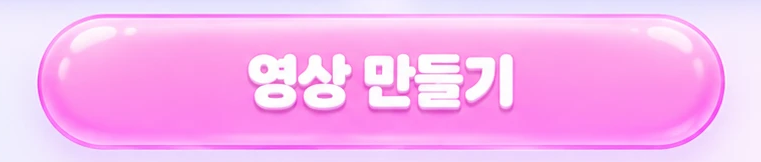
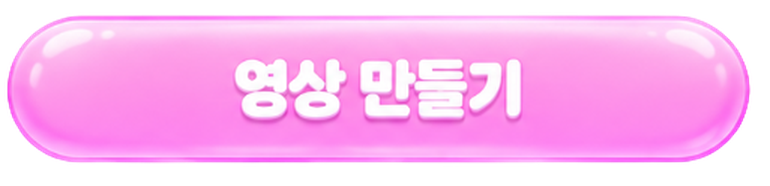
헤딩/버튼 이미지를 실제 투명배경 에셋으로 교체하고 크기 확대
- 누끼된 실제 이미지로 heading.png/btn-submit.png 교체
- 헤딩 이미지 확대, 제출 버튼을 카테고리 버튼 너비만큼 확대
- 한 화면(768px 기준)에서 스크롤 없이 보이도록 여백 재조정

Claude-Session: https://claude.ai/code/session_019RgKKpBfyx27gSoXqEJwwP

diff --git a/webapp/public/css/styles.css b/webapp/public/css/styles.css
@@ -101,7 +101,7 @@ body {
 
 .site-header {
   text-align: center;
-  padding: 18px 20px 0;
+  padding: 10px 20px 0;
 }
 
 .logo-img {
@@ -122,7 +122,7 @@ body {
 .app-shell {
   max-width: 640px;
   margin: 0 auto;
-  padding: 14px 20px 16px;
+  padding: 8px 20px 8px;
 }
 
 .view {
@@ -137,7 +137,7 @@ body {
   background: linear-gradient(160deg, rgba(255, 255, 255, 0.92), rgba(224, 231, 255, 0.75));
   border: 1px solid rgba(255, 255, 255, 0.8);
   border-radius: 32px;
-  padding: 22px 28px;
+  padding: 18px 28px;
   box-shadow: 0 12px 34px rgba(124, 58, 237, 0.14);
   backdrop-filter: blur(10px);
 }
@@ -154,13 +154,13 @@ body {
   display: block;
   margin: 0 auto;
   width: 100%;
-  max-width: 340px;
+  max-width: 420px;
   height: auto;
 }
 
 .hero-sub {
   color: var(--muted);
-  margin: 0 0 14px;
+  margin: 0 0 10px;
 }
 
 .url-form {
@@ -212,7 +212,7 @@ body {
 #submit-btn {
   align-self: center;
   width: 100%;
-  max-width: 220px;
+  max-width: 370px;
 }
 
 #submit-btn:disabled {
